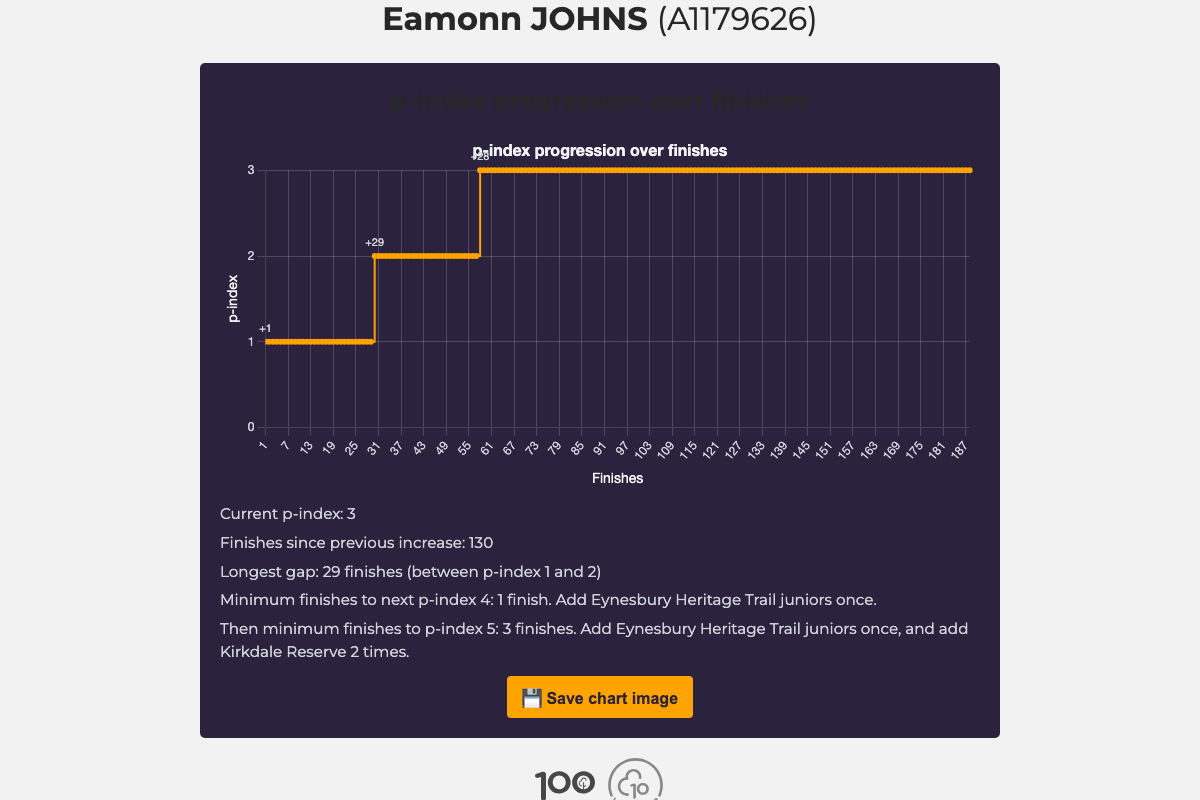
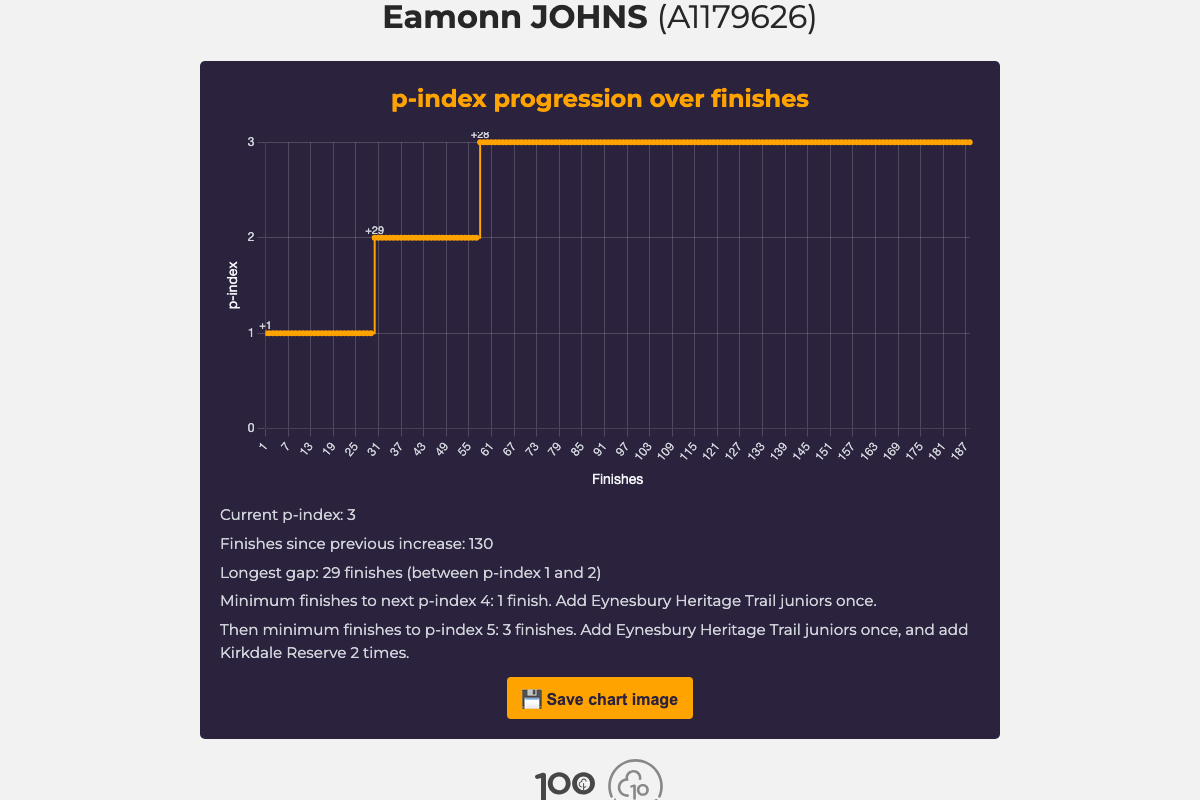
fix(p-index): align progression title style

diff --git a/p-index-progression.user.js b/p-index-progression.user.js
@@ -337,9 +337,10 @@
           card.style.boxSizing = "border-box";
           const title = document.createElement("h3");
           title.textContent = "p-index progression over finishes";
-          title.style.margin = "0 0 12px 0";
+          title.style.margin = "0 0 15px 0";
           title.style.fontSize = responsive.typography.heading;
           title.style.textAlign = "center";
+          title.style.color = THEME.accentColor;
           card.appendChild(title);
           const chartContainer = document.createElement("div");
           chartContainer.style.height = responsive.chart.height;
@@ -452,10 +453,7 @@
               },
               plugins: {
                 title: {
-                  display: true,
-                  text: "p-index progression over finishes",
-                  font: { size: responsive.chart.titleSize },
-                  color: THEME.textColor
+                  display: false
                 },
                 legend: { display: false },
                 tooltip: {
@@ -502,7 +500,7 @@
                 ctx.fillText(
                   `+${item.point.finishesSincePreviousIncrease}`,
                   pointElement.x,
-                  pointElement.y - 10
+                  pointElement.y - 4
                 );
               });
               ctx.restore();

diff --git a/src/p-index-progression.user.js b/src/p-index-progression.user.js
@@ -137,9 +137,10 @@
 
     const title = document.createElement('h3');
     title.textContent = 'p-index progression over finishes';
-    title.style.margin = '0 0 12px 0';
+    title.style.margin = '0 0 15px 0';
     title.style.fontSize = responsive.typography.heading;
     title.style.textAlign = 'center';
+    title.style.color = THEME.accentColor;
     card.appendChild(title);
 
     const chartContainer = document.createElement('div');
@@ -264,10 +265,7 @@
         },
         plugins: {
           title: {
-            display: true,
-            text: 'p-index progression over finishes',
-            font: { size: responsive.chart.titleSize },
-            color: THEME.textColor,
+            display: false,
           },
           legend: { display: false },
           tooltip: {
@@ -314,7 +312,7 @@
           ctx.fillText(
             `+${item.point.finishesSincePreviousIncrease}`,
             pointElement.x,
-            pointElement.y - 10
+            pointElement.y - 4
           );
         });
         ctx.restore();
